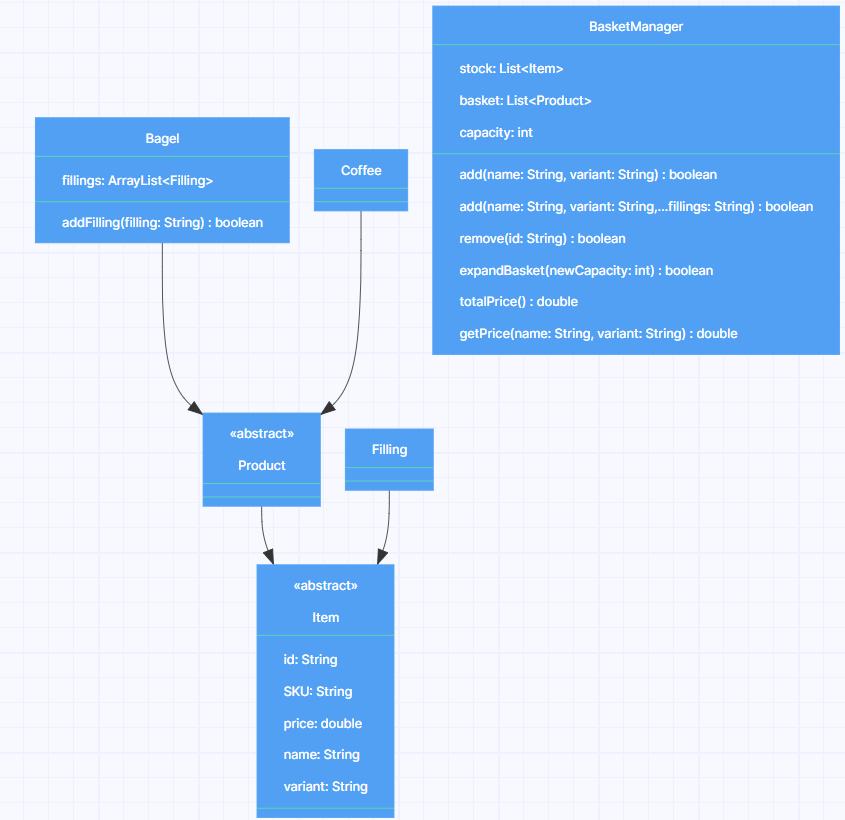
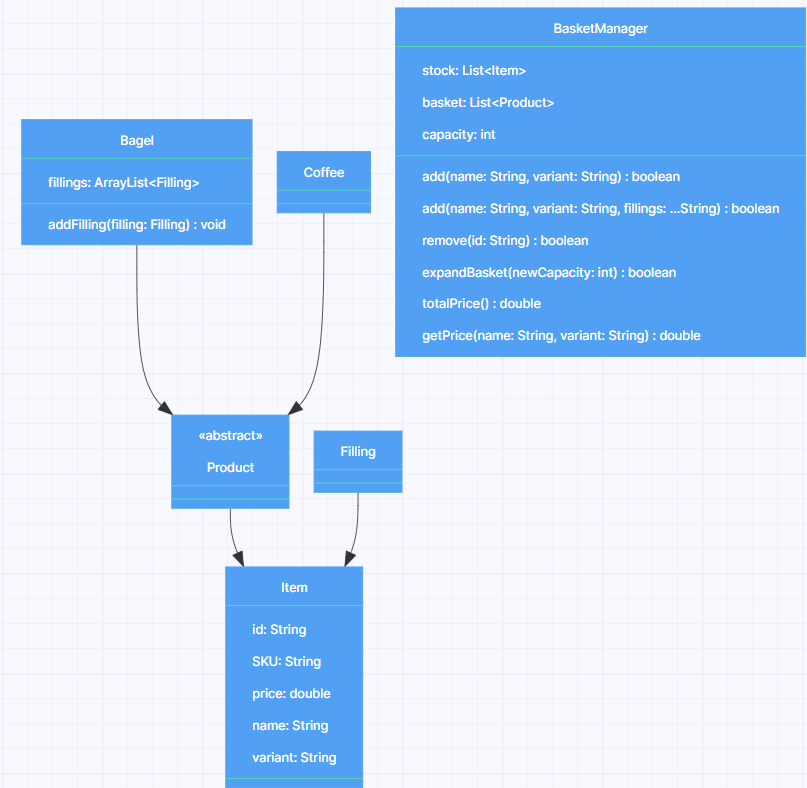
Completed

Changed region(s): [[0.0, 0.0, 1.0, 0.4569], [0.1859, 0.4873, 0.5266, 1.0]]

diff --git a/src/main/java/com/booleanuk/core/BasketManager.java b/src/main/java/com/booleanuk/core/BasketManager.java
@@ -1,11 +1,14 @@
 package com.booleanuk.core;
 
 import java.util.ArrayList;
+import java.util.Arrays;
 import java.util.List;
 import java.util.Optional;
 
 public class BasketManager {
 
+    //TODO: convert stock to HashMap with key = SKU || [name, variant]
+    // new keySet[name,variant]
     static List<Item> stock;
     private List<Product> basket;
     private int capacity;
@@ -92,8 +95,6 @@ public class BasketManager {
         }
 
         return false;
-
-
     }
 
     public boolean remove(String id) {
@@ -127,5 +128,38 @@ public class BasketManager {
                 .findFirst();
 
         return foundItem.map(Item::getPrice).orElse(-1.0);
+    }
+
+    public boolean add (String name, String variant, String ...fillings) {
+        if (basket.size() >= capacity) return false;
+
+        // Find Product if it is in stock
+        Product product = getProductFromStockByNameAndVariant(name, variant);
+        if (product == null) {
+            System.out.println("Given product is not currently in stock");
+            return false;
+        }
+
+        //Add Bagel with fillings to basket
+        if (product instanceof Bagel) {
+            Bagel newBagel = new Bagel((Bagel) product);
+            if (fillings.length != 0) {
+                //Find fillings if it is in stock
+                for (String fillVariant: fillings) {
+                    Optional<Item> foundFilling = stock.stream().filter(item -> item.getName().equals("Filling"))
+                            .filter(item -> item.getVariant().equals(fillVariant)).findFirst();
+
+                    if (foundFilling.isPresent()) {
+                        newBagel.addFilling((Filling) foundFilling.get());
+                    } else {
+                        System.out.println("Filling doesn't exist");
+                    }
+                }
+            }
+            this.basket.add(newBagel);
+            return true;
+        }
+
+        return false;
     }
 }

diff --git a/src/test/java/com/booleanuk/core/BasketManagerTest.java b/src/test/java/com/booleanuk/core/BasketManagerTest.java
@@ -83,6 +83,7 @@ public class BasketManagerTest {
         Assertions.assertEquals(0.12, basketManager.getPrice("Filling", "Bacon"));
     }
 
+    @Test
     public void testAddFillingsToBagel() {
         basketManager.add("Bagel", "Onion", "Bacon");
         basketManager.add("Bagel", "Plain", "Bacon", "Egg");

diff --git a/src/main/java/com/booleanuk/core/Bagel.java b/src/main/java/com/booleanuk/core/Bagel.java
@@ -19,4 +19,8 @@ public class Bagel extends Product{
     public List<Filling> getFillings() {
         return fillings;
     }
+
+    public void addFilling(Filling filling) {
+        this.fillings.add(filling);
+    }
 }

diff --git a/DOMAIN-MODEL.md b/DOMAIN-MODEL.md
@@ -12,8 +12,7 @@
 | `Filling extends Item`   |                           |                                                                 |                                                                          |                                                       |
 | `Bagel extends Product`  |                           |                                                                 |                                                                          |                                                       |
 |                          | `fillings: List<Filling>` |                                                                 |                                                                          |                                                       |
-|                          |                           | `addFilling(String filling): boolean`                           | User Story 8, 10: Given filling exists                                   | Return true, add filling to bagel                     |
-|                          |                           |                                                                 | User Story 10:    Given filling does not exist                           | Return false, inform the user                         |
+|                          |                           | `addFilling(Filling filling): void`                             | User Story 8, 10: Given filling exists                                   | Return true, add filling to bagel                     |
 | `Coffee extends Product` |                           |                                                                 |                                                                          |                                                       |
 | `BasketManager`          |                           |                                                                 |                                                                          |                                                       |
 |                          | `stock: List<Item>`       |                                                                 |                                                                          |                                                       |
@@ -27,6 +26,7 @@
 |                          |                           |                                                                 | User Story 10:    Given name or variant or filling does not exist        | Return false, inform the user                         |
 |                          |                           |                                                                 | User Story 3:     Basket is not full                                     | Move to User Story 1                                  |
 |                          |                           |                                                                 | User Story 3:     Basket is full                                         | Return false, inform the user                         |
+|                          |                           |                                                                 | User Story 10:    Given filling does not exist                           | Return false, inform the user                         |
 |                          |                           | `remove(String id): boolean`                                    | User Story 2:     Given id exists in the basket                          | Return true, remove the product from the basket       |
 |                          |                           |                                                                 | User Story 5:     Given id does not exist in the basket                  | Return false, inform the user                         |
 |                          |                           | `expandBasket(int newCapacity): boolean`                        | User Story 4:     newCapacity is greater than capacity                   | Return true, set the capacity to newCapacity          |
